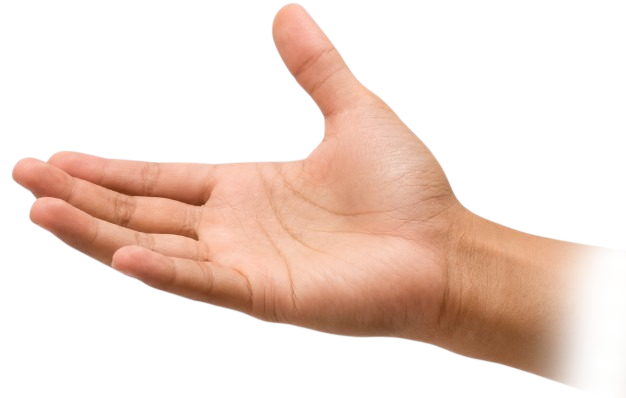
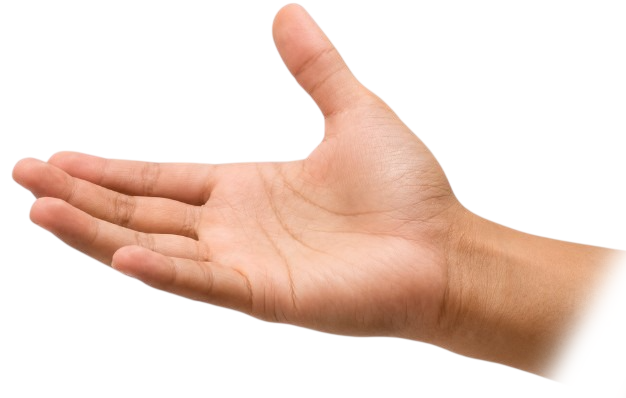
updated handshake

Changed region(s): [[0.8498, 0.603, 1.0, 0.9648]]

diff --git a/assets/css/style.css b/assets/css/style.css
@@ -27017,8 +27017,8 @@ iframe {
 
 .handshake-section__content {
   position: absolute;
-  left: clamp(24px, 18.2vw, 350px);
-  top: 41.5vh;
+  left: clamp(24px, 21.2vw, 350px);
+  top: 38.5vh;
   z-index: 6;
   width: min(50vw, 860px);
   will-change: transform, opacity;
@@ -27107,7 +27107,7 @@ iframe {
 }
 
 .handshake-section__hand--top {
-  left: 9.4vw;
+  left: 0;
   right: auto;
   top: -10vh;
   width: min(52vw, 995px);
@@ -27115,8 +27115,8 @@ iframe {
 }
 
 .handshake-section__hand--bottom {
-  right: -3.8vw;
-  bottom: 8.8vh;
+  right: -7.2vw;
+  bottom: -2.2vh;
   width: min(51vw, 975px);
   transform-origin: 24% 40%;
 }

diff --git a/index.php b/index.php
@@ -1970,12 +1970,7 @@ document.addEventListener('DOMContentLoaded', function () {
       </a>
     </div>
   </div>
-  <figure class="handshake-section__card handshake-section__card--left left-card" aria-hidden="true">
-    <img src="<?php echo url('assets/imgs/about/How-do-we-Formulate-min-2048x1241.jpg'); ?>" alt="">
-  </figure>
-  <figure class="handshake-section__card handshake-section__card--right right-card" aria-hidden="true">
-    <img src="<?php echo url('assets/imgs/about/what-do-we-offer-min-2048x1241.jpg'); ?>" alt="">
-  </figure>
+  
   <img class="handshake-section__hand handshake-section__hand--top top-hand" src="<?php echo url('assets/imgs/cta/img-2.png'); ?>" alt="" aria-hidden="true">
   <img class="handshake-section__hand handshake-section__hand--bottom bottom-hand" src="<?php echo url('assets/imgs/cta/img-1.png'); ?>" alt="" aria-hidden="true">
 </section>
@@ -2006,8 +2001,8 @@ document.addEventListener('DOMContentLoaded', function () {
     window.gsap.set(content, { autoAlpha: 0, x: 130, y: 74, scale: 0.82, force3D: true });
     window.gsap.set(actions, { autoAlpha: 0, y: 34, scale: 0.9, force3D: true });
     window.gsap.set(scrollHint, { autoAlpha: 0, y: 24, force3D: true });
-    window.gsap.set(topHand, { xPercent: 19, yPercent: 42, rotate: 2.4, force3D: true });
-    window.gsap.set(bottomHand, { xPercent: -22, yPercent: -28, rotate: -2.2, force3D: true });
+    window.gsap.set(topHand, { xPercent: 30, yPercent: 35, rotate: 2.6, force3D: true });
+    window.gsap.set(bottomHand, { xPercent: -35, yPercent: -38, rotate: -2.2, force3D: true });
     window.gsap.set(leftCard, { autoAlpha: 0, xPercent: 112, yPercent: 74, rotate: -1.5, scale: 0.72, force3D: true });
     window.gsap.set(rightCard, { autoAlpha: 0, xPercent: -105, yPercent: 82, rotate: 1.5, scale: 0.72, force3D: true });
 
